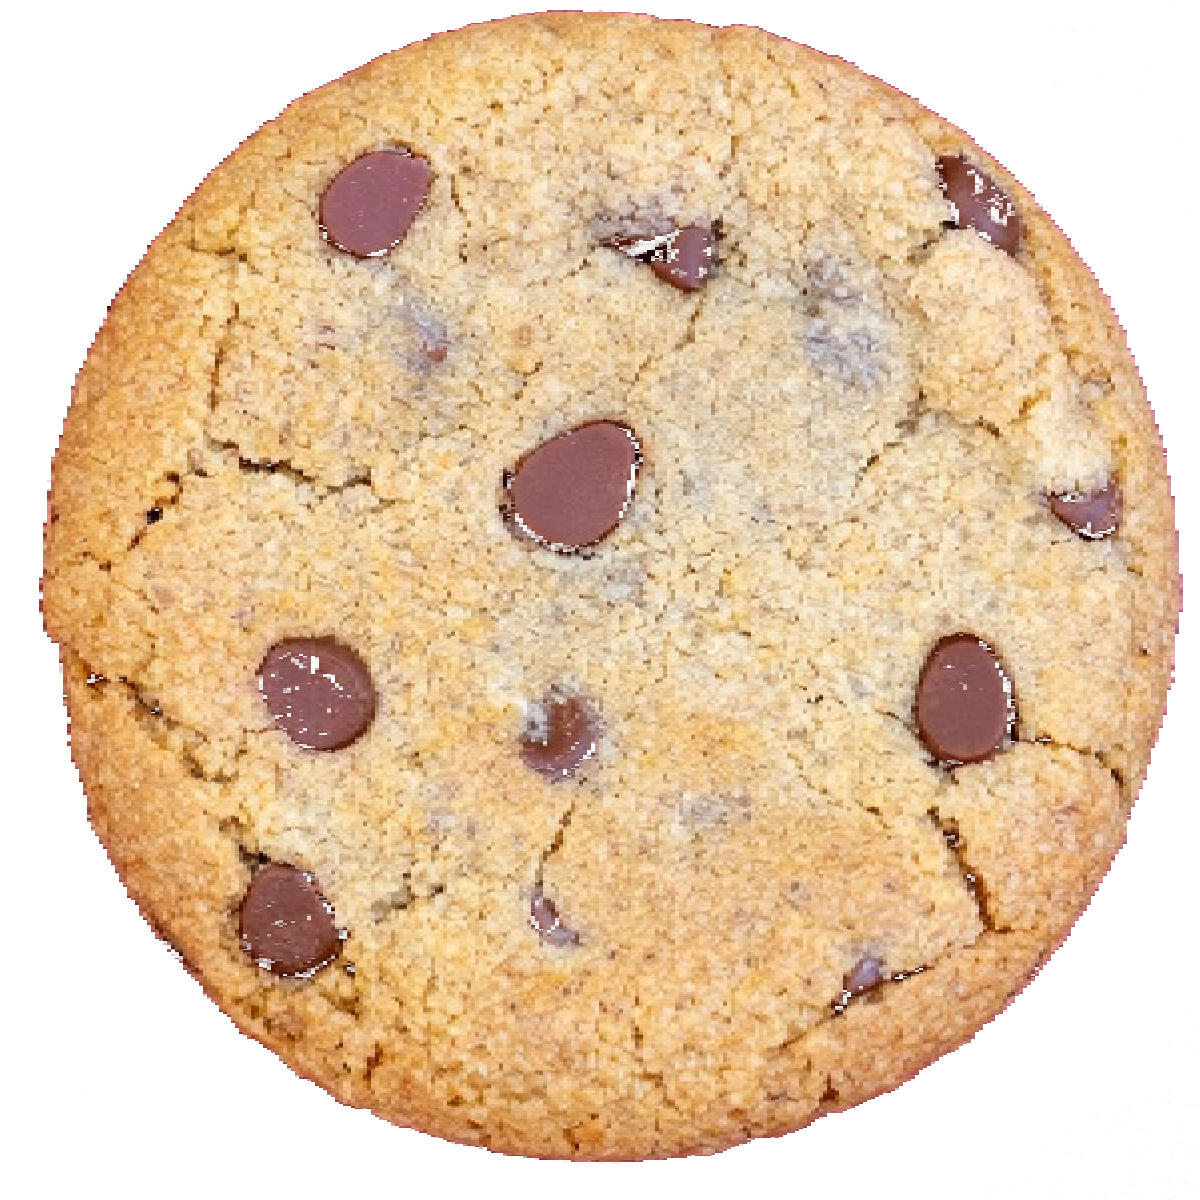
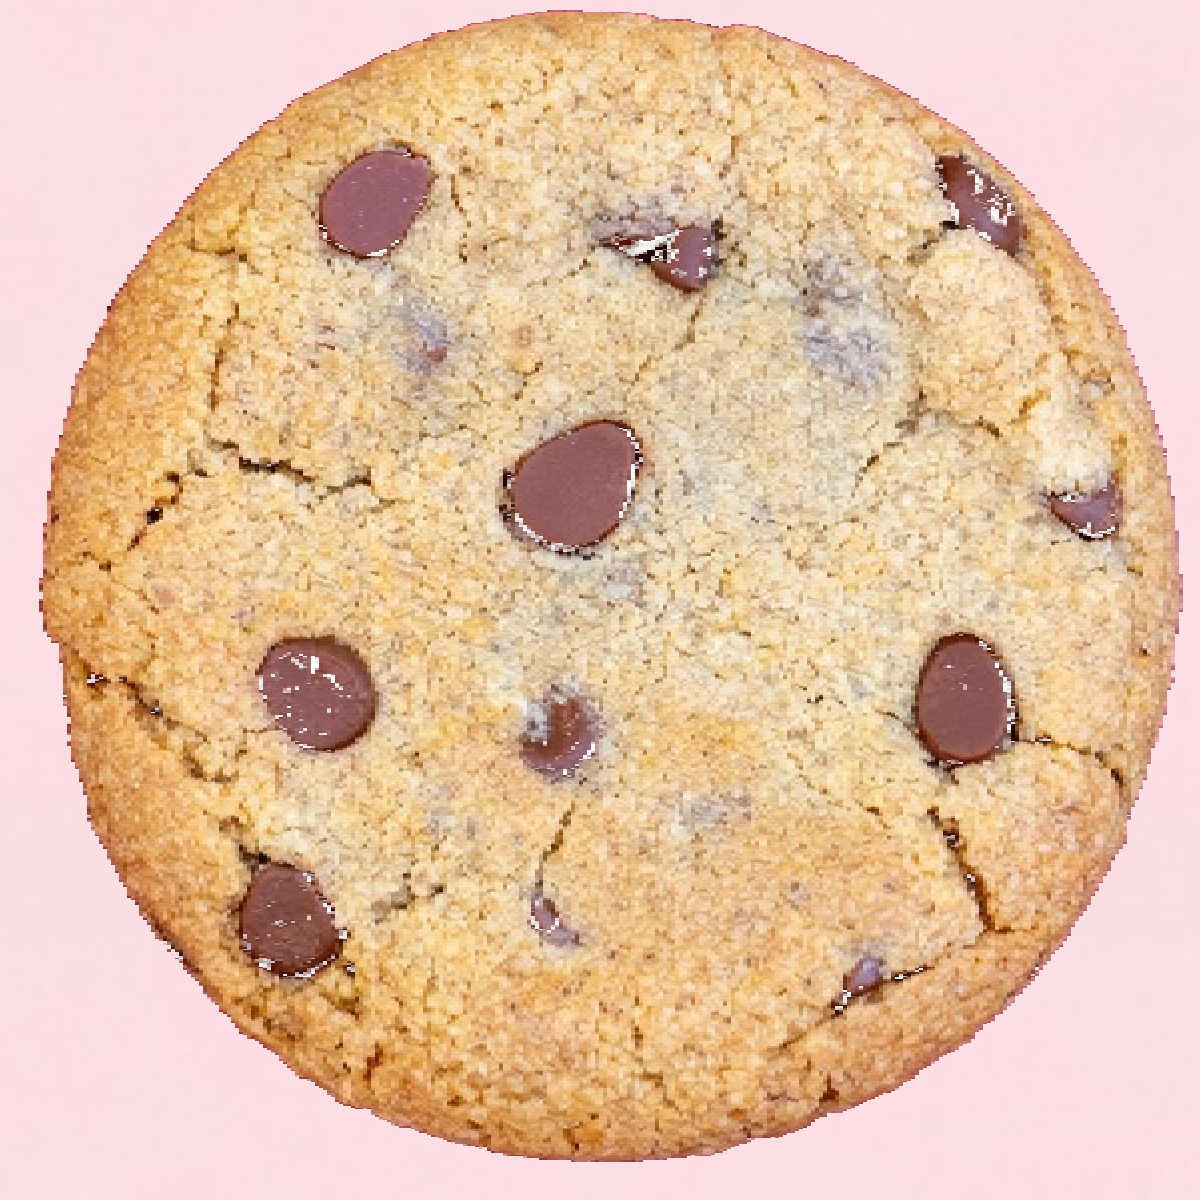
changed image size

Changed region(s): [[0.0, 0.0, 1.0, 1.0]]

diff --git a/frontend/src/components/Products.js b/frontend/src/components/Products.js
@@ -93,9 +93,9 @@ const FlavourGroup = ({ group, cookieProducts, selections, setSelections, onOpen
               }}
               className={`cursor-pointer flex items-center gap-3 p-3 rounded-xl border transition-colors ${count > 0 ? 'border-red-400 bg-red-50' : 'border-gray-200 bg-white'}`}
             >
-              <div className="w-12 h-12 flex-shrink-0 rounded-lg overflow-hidden bg-gray-100">
+              <div className="w-12 h-12 flex-shrink-0 rounded-lg overflow-hidden bg-transparent">
                 {cookie.image
-                  ? <img src={cookie.image} alt={cookie.name} className="w-full h-full object-contain p-1 bg-white" />
+                  ? <img src={cookie.image} alt={cookie.name} className="w-full h-full object-cover scale-150" />
                   : <Cookie className="w-8 h-8 text-red-300 m-2" />}
               </div>
               <span className="flex-1 text-sm text-gray-800 leading-tight">{cookie.name}</span>
@@ -386,7 +386,7 @@ export default function Products() {
                       <ImageWithFallback
                         src={similar.image}
                         alt={similar.name}
-                        className={`w-full h-full ${similar.category === 'box' ? 'object-cover' : 'object-contain p-1 bg-white'}`}
+                        className={`w-full h-full object-cover ${similar.category !== 'box' ? 'scale-150' : ''}`}
                       />
                     </div>
                     <div className="flex-1 min-w-0">
